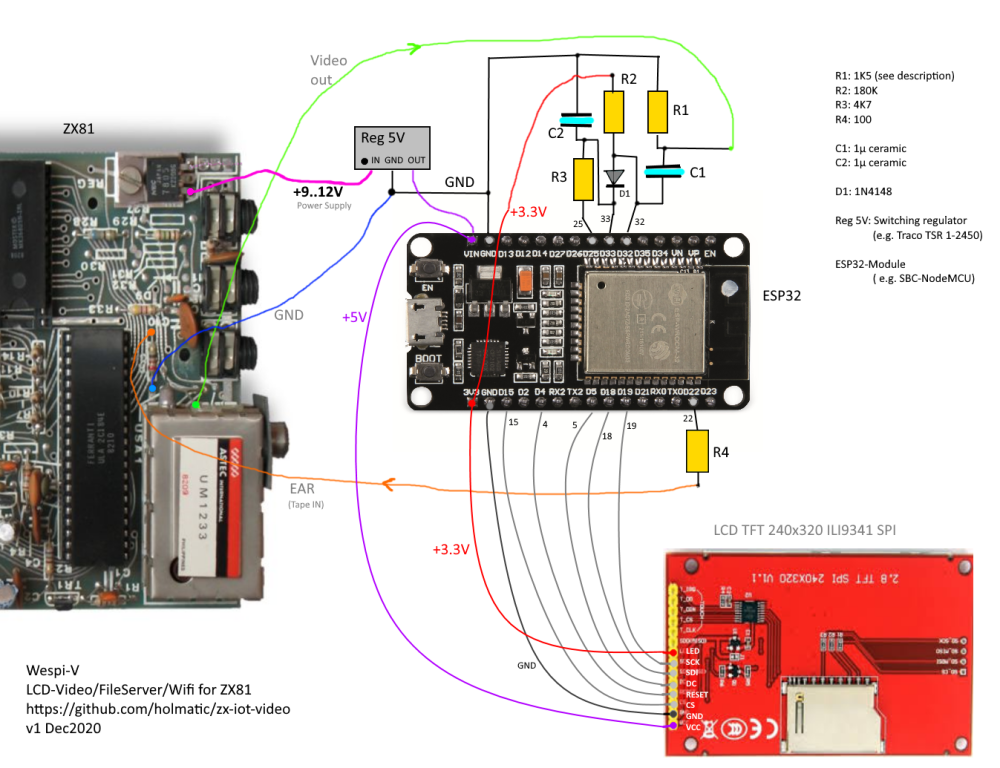
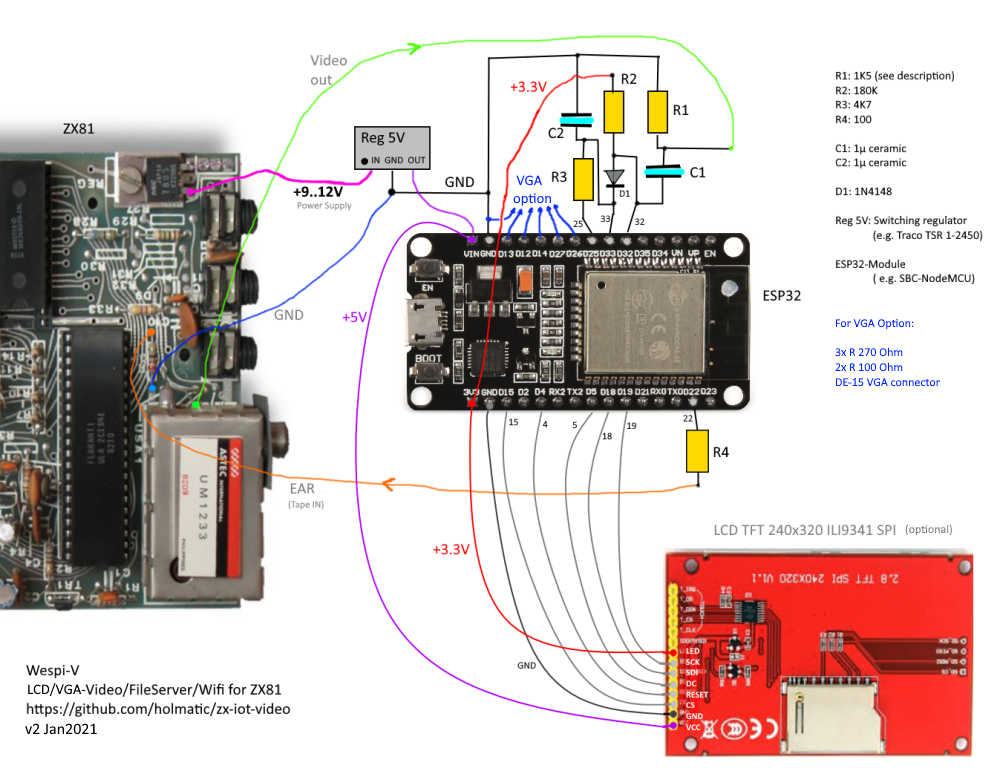
Update documentation

diff --git a/main/vga_display.c b/main/vga_display.c
@@ -26,7 +26,7 @@ static const char *TAG="vga_disp";
 
 
 #define PIN_NUM_RED  13  
-#define PIN_NUM_GREEN  12  //clk
+#define PIN_NUM_GREEN  12  
 #define PIN_NUM_BLUE  14  
 
 #define PIN_NUM_HSYNC 27

diff --git a/main/lcd_display.h b/main/lcd_display.h
@@ -12,6 +12,4 @@
 // call once at startup
 void lcd_disp_init();
 
-void lcd_set_colour_cmd(char cmd, uint16_t data_or_0);
-
 #endif /* _TFT_DISPLAY_H_ */

diff --git a/README.md b/README.md
@@ -1,6 +1,6 @@
 # zx-iot-video
 
-This project creates the firmware for **ZX-Wespi-V** - a DIY ESP32-based TFT-video-display and wifi-enabled fileserver for ZX81.
+This project creates the firmware for **ZX-Wespi-V** - a DIY ESP32-based TFT/VGA-video-display-interface and wifi-enabled fileserver for ZX81.
 When using a Sinclair ZX81 nowadays, one may look for a more handy replacement of the TV set and cassette recorder. 
 Maybe even something that can be built in, and allows to exchange the ZX programs and files via wifi to your modern computer. 
 
@@ -14,34 +14,49 @@ Components needed for building the device are quite inexpensive (about 20€ in 
 
 ## Hardware
 
-ESP32-based modules are often used whenever it comes down to electronics control tasks, combined with wifi communication abilities. Here,
-the I2S interface of the ESP is used to retrieve the ZX81 video signal - which is, as special feature of the ingenious ZX computers, also used as tape recorder output. ESP32 furthermore feeds the tape input of the ZX computer, so LOAD and SAVE work.
+ESP32-based modules are often used whenever it comes down to electronics control tasks, combined with wifi communication abilities. Here, the I2S interface of the ESP is used to retrieve the ZX81 video signal - which is, as special feature of the ingenious ZX computers, also used as tape recorder output. ESP32 furthermore feeds the tape input of the ZX computer, so LOAD and SAVE work.
 
 ![Schematic outline](doc/zx-iot-video-sketch.png "How to connect ZX, ESP32, and TFT Display")
 
+### Optional VGA Output _(new!)_ ###
 
+Starting from software version v0.6, a simple VGA interface for  standard monitors is supported. 
+
+For the VGA interface hardware, you need five resistors (3x 270$\Omega$ and 2x 100$\Omega$) and the well-known female-type 15-pin D-subminiature connector. Connect as follows:
+
+```
+ESP32                     VGA
+Module                    Connector
+
+D13 ----[R 270 Ohm]----  1 (RED)
+D12 ----[R 270 Ohm]----  2 (GREEN)
+D14 ----[R 270 Ohm]----  3 (BLUE)
+
+D27 ----[R 100 Ohm]---- 13 (HSYNC)
+D26 ----[R 100 Ohm]---- 14 (VSYNC)
+
+GND ------------------- 6,7,8,10,5 (GND)
+```
+
+ The monitor connection is completely optional, one may use VGA, LCD-TFT, both, or none. 
 
 ### Power regulator
 
-ESP32 and TFT-diplay need 5 Volts at about 250mA. Safest variant is an additional switching regulator like outlined in the schematic sketch. If your ZX is already upgraded with a modern regulator or bigger heat sink, you may use the 5V from the ZX81 PCB directly.
+ESP32 and TFT-diplay need 5 Volts at about 250mA. Safest variant is an additional switching regulator like outlined in the schematic sketch. If your ZX is already upgraded with a modern regulator or bigger heat sink, you may use the 5V from the ZX81 PCB directly. 
+
+If you use the Wespi as an _external_ device, easiest wasy is of course to just utilize the USB plug as a power supply. 
 
 ### When using this device as an external monitor
 
-If you do not want to modify the ZX81 or its case, Wespi-V can also be used as external monitor, connected via
-longer cables. In this case, R1 should be a 75 Ohms resistor to act as standard cable impedance termination. Of course, in this case it is required that the ZX is equipped with a video mod/amplifier. 
+If you do not want to modify the ZX81 or its case, Wespi-V can also be used as external monitor/interface, connected via
+longer cables. In this case, R1 should be a 75 Ohms resistor to act as standard cable impedance termination. Of course, in this case it is required that the ZX is internally equipped with a video mod/amplifier. 
 
 
 ## Version Info
 
-0.5.0 Initial pre-release (somehow derived from zx-iot-mi)
+0.6.0 VGA output support added
 
-
-
-
-
-
-
-
+0.5.0 Initial pre-release (derived from zx-iot-mi)
 
 
 
@@ -83,4 +98,16 @@ This short instruction is for using the ESP32 download tool (tested with V3.8.5)
 - Press start to flash. If the ESP32 does not connect automatically, try holding the BOOT knob and/or EN(reset) 
 
 
-Instruction v1.1
+## Over-the-air (OTA) updates
+
+Once you have the system running and connected to WLAN, incremental firmware updates can be done just using a browser. for this,
+
+- Browse into the ZX-Wespi File Server (IP address as shown on the ZX81 menu screen)
+- In the 'Upload File' dialog, choose the file named ```zx_iot_video.bin``` and press upload. The process will take 30-60 seconds, the upload button will change text when done. 
+- Afterwards, just reset or power cycle the module. 
+  
+As an info - Wespi OTA uses double-buffering, so a failed update should not harm.
+
+---
+
+Instruction v1.2
